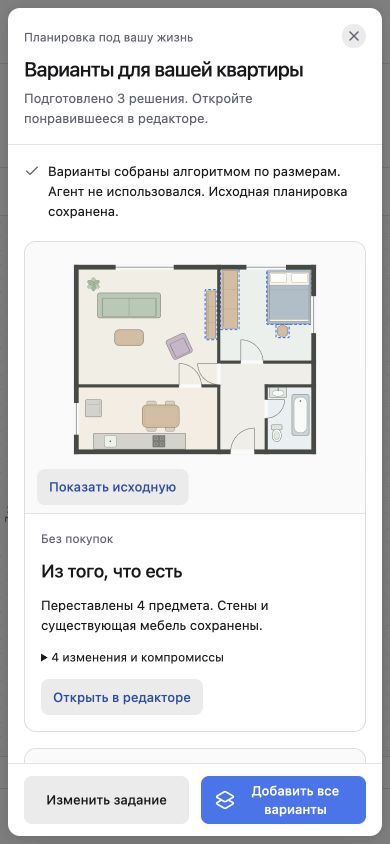
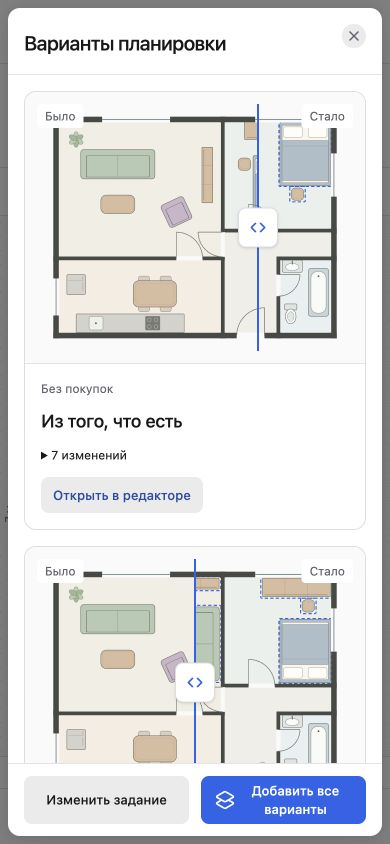
Compare layouts with a draggable divider and trim interface copy

Changed region(s): [[0.0615, 0.0308, 0.8923, 0.955], [0.5846, 0.9242, 0.6154, 0.955], [0.0615, 0.1848, 0.0923, 0.2156]]

diff --git a/src/components/PlannerDialog.tsx b/src/components/PlannerDialog.tsx
@@ -1,5 +1,5 @@
 import { useEffect, useRef, useState } from 'react';
-import { ArrowLeft, ArrowRight, Check, ExternalLink, Layers2, LockKeyhole, RefreshCw } from 'lucide-react';
+import { ArrowLeft, ArrowRight, Check, ExternalLink, Layers2, RefreshCw } from 'lucide-react';
 import { Button, Input, Label, Modal, NumberField, Switch, TextArea, TextField, ToggleButton, ToggleButtonGroup } from '@heroui/react';
 import type { Plan } from '../model';
 import { findRooms } from '../model';
@@ -9,13 +9,14 @@ import { GOALS } from '../planner/types';
 import type { DesignBrief, ProductSearch, PurchaseSpec } from '../planner/types';
 import { parseProject } from '../storage';
 import { PlanPreview } from './PlanPreview';
+import { PlanComparison } from './PlanComparison';
 
 const money=(n:number)=>n.toLocaleString('ru-RU',{maximumFractionDigits:0})+' ₽';
 async function request<T>(path:string,value:unknown,signal:AbortSignal):Promise<T>{
   const response=await fetch('/api/planner/'+path,{method:'POST',headers:{'Content-Type':'application/json'},body:JSON.stringify(value),signal});
   const result=await response.json();if(!response.ok)throw new Error(result.error??'Не удалось выполнить подбор');return result as T;
 }
-export default function PlannerDialog({plan,agentAvailable,capacity,onClose,onApply}:{plan:Plan;agentAvailable:boolean;capacity:number;onClose:()=>void;onApply:(plans:Plan[],activeId:string)=>void}){
+export default function PlannerDialog({plan,comparisonSource,agentAvailable,capacity,onClose,onApply}:{plan:Plan;comparisonSource?:Plan;agentAvailable:boolean;capacity:number;onClose:()=>void;onApply:(plans:Plan[],activeId:string)=>void}){
   const [source]=useState(()=>structuredClone(plan)),[brief,setBrief]=useState<DesignBrief>(()=>plan.improvement?.brief??defaultBrief(plan));
   const [step,setStep]=useState(0),[layouts,setLayouts]=useState<Plan[]>(()=>plan.improvement?[structuredClone(plan)]:[]);
   const [busy,setBusy]=useState(false),[error,setError]=useState(''),[useAgent,setUseAgent]=useState(agentAvailable),[shopping,setShopping]=useState<Plan|null>(null);
@@ -41,37 +42,34 @@ export default function PlannerDialog({plan,agentAvailable,capacity,onClose,onAp
   return <Modal.Backdrop isOpen onOpenChange={open=>{if(!open)onClose();}} isDismissable={!busy}>
     <Modal.Container placement="center" size="lg" className={`planner-container ${layouts.length?'planner-container--results':''}`}><Modal.Dialog className="planner-dialog">
       <Modal.CloseTrigger aria-label="Закрыть подбор"/>
-      <Modal.Header className="planner-header"><span className="planner-eyebrow">Планировка под вашу жизнь</span><Modal.Heading>{shopping?'Покупки для варианта':layouts.length?'Варианты для вашей квартиры':'Что хочется улучшить?'}</Modal.Heading><p>{shopping?shopping.name:layouts.length?`Подготовлено ${layouts.length} ${plural(layouts.length,'решение','решения','решений')}. Откройте понравившееся в редакторе.`:'Четыре коротких шага. Получим до трёх расстановок с учётом размеров.'}</p></Modal.Header>
+      <Modal.Header className="planner-header"><Modal.Heading>{shopping?'Покупки для варианта':layouts.length?'Варианты планировки':'Что хочется улучшить?'}</Modal.Heading>{shopping&&<p>{shopping.name}</p>}</Modal.Header>
       <Modal.Body className="planner-body">
         {shopping?<Shopping plan={shopping} agentAvailable={agentAvailable}/>:layouts.length?<>
-          <div className="planner-results-note"><Check size={16}/><span>{layouts[0].improvement?.engine==='agent'?'Агент учёл задание при выборе и описании вариантов.':'Варианты собраны алгоритмом по размерам. Агент не использовался.'} Исходная планировка сохранена.</span></div>
-          <div className="proposal-grid">{layouts.map(p=><ProposalCard key={p.id} plan={p} source={p.improvement?.sourceId===source.id?source:undefined} canApply={capacity>0} onApply={()=>onApply([p],p.id)} onShopping={()=>setShopping(p)}/>)}</div>
-          {layouts.length<3&&<p className="planner-muted">Под ограничения подошло {layouts.length} {layouts.length===1?'решение':'решения'}. Показываем подходящие расстановки без повторов.</p>}
-          <p className="planner-muted">Проверены границы комнат, пересечения переставляемых предметов и зоны открывания дверей. Свет, высоту мебели и точные проходы нужно оценить отдельно.</p>
+          <div className="proposal-grid">{layouts.map(p=><ProposalCard key={p.id} plan={p} source={p.improvement?.sourceId===source.id?source:comparisonSource?.id===p.improvement?.sourceId?comparisonSource:undefined} canApply={capacity>0} onApply={()=>onApply([p],p.id)} onShopping={()=>setShopping(p)}/>)}</div>
         </>:<>
           <ol className="brief-progress" aria-label="Шаги опроса">{['Задача','Привычки','Ограничения','Проверка'].map((label,i)=><li key={label} aria-current={i===step?'step':undefined} data-complete={i<step}><span>{i<step?<Check size={14}/>:i+1}</span>{label}</li>)}</ol>
-          {!rooms.length?<p className="planner-error">Сначала замкните стены хотя бы одной комнаты. Подбор использует её границы и размеры мебели.</p>:<>
+          {!rooms.length?<p className="planner-error">Замкните стены хотя бы одной комнаты.</p>:<>
             {step===0&&<div className="brief-step"><fieldset><legend>Какие комнаты рассматриваем?</legend><div className="brief-room-options">{rooms.map((r,i)=><Button key={r.id} size="sm" variant={brief.roomIds.includes(r.id)?'secondary':'tertiary'} aria-pressed={brief.roomIds.includes(r.id)} onPress={()=>toggleRoom(r.id)}>{brief.roomIds.includes(r.id)&&<Check size={14}/>} {r.label?.name??`Комната ${i+1}`}</Button>)}</div></fieldset><fieldset><legend>Что важнее всего? До трёх целей.</legend><ToggleButtonGroup className="goal-options" aria-label="Цели улучшения" selectionMode="multiple" isDetached selectedKeys={brief.goals} onSelectionChange={keys=>{const ids=[...keys];if(ids.length<=3)update('goals',ids as DesignBrief['goals']);}}>{GOALS.map(g=><ToggleButton key={g.id} id={g.id}><span><strong>{g.name}</strong><small>{g.description}</small></span></ToggleButton>)}</ToggleButtonGroup></fieldset></div>}
             {step===1&&<div className="brief-step"><fieldset><legend>Кто пользуется квартирой?</legend><ToggleButtonGroup className="brief-options" aria-label="Кто живёт в квартире" selectionMode="single" isDetached disallowEmptySelection selectedKeys={[brief.household]} onSelectionChange={keys=>update('household',String([...keys][0]))}>{['Один или двое','С детьми','Соседи или большая семья'].map(x=><ToggleButton key={x} id={x}>{x}</ToggleButton>)}</ToggleButtonGroup></fieldset><TextField variant="secondary" value={brief.wishes} onChange={v=>update('wishes',v)}><Label>Как проходит ваш день и что мешает сейчас?</Label><TextArea aria-label="Привычки и пожелания" rows={3} maxLength={600} placeholder="Работаем вдвоём из дома. Вечером хочется читать, но кресло стоит в проходе."/></TextField><fieldset><legend>Какие материалы и настроение вам ближе?</legend><ToggleButtonGroup className="brief-options" aria-label="Характер интерьера" selectionMode="single" isDetached disallowEmptySelection selectedKeys={[brief.style]} onSelectionChange={keys=>update('style',String([...keys][0]) as DesignBrief['style'])}>{[['warm','Тёплое дерево и фактуры'],['calm','Спокойный и светлый'],['expressive','Цвет и выразительные вещи']].map(([id,label])=><ToggleButton key={id} id={id}>{label}</ToggleButton>)}</ToggleButtonGroup></fieldset><TextField variant="secondary" value={brief.avoid} onChange={v=>update('avoid',v)}><Label>Что точно не нравится?</Label><Input aria-label="Что исключить" maxLength={600} placeholder="Глянцевая мебель, открытое хранение, холодный свет…"/></TextField></div>}
-            {step===2&&<div className="brief-step"><div className="brief-budget"><Switch isSelected={brief.purchases} onChange={v=>update('purchases',v)}><Switch.Content><Switch.Control><Switch.Thumb/></Switch.Control><Label>Можно добавить новую мебель</Label></Switch.Content></Switch>{brief.purchases&&<NumberField variant="secondary" minValue={0} maxValue={1000000} step={1000} value={brief.budget} onChange={v=>update('budget',Number.isFinite(v)?v:0)} formatOptions={{maximumFractionDigits:0}}><Label>Общий бюджет покупок, ₽</Label><NumberField.Group><NumberField.Input aria-label="Бюджет покупок"/></NumberField.Group></NumberField>}</div><fieldset><legend>Что должно остаться на месте?</legend><p className="planner-muted">Стены, двери и окна сохраняем. Кухня, сантехника и холодильник привязаны к коммуникациям.</p><div className="locked-items">{visibleItems.map(f=><div key={f.id}><span>{f.name}{FIXED_KINDS.has(f.kind)&&<small>Коммуникации</small>}</span><Switch size="sm" aria-label={`Оставить на месте: ${f.name}`} isDisabled={FIXED_KINDS.has(f.kind)} isSelected={brief.lockedIds.includes(f.id)||FIXED_KINDS.has(f.kind)} onChange={checked=>update('lockedIds',checked?[...brief.lockedIds,f.id]:brief.lockedIds.filter(id=>id!==f.id))}><Switch.Content><Switch.Control><Switch.Thumb/></Switch.Control><Label className="sr-only">{`Оставить на месте: ${f.name}`}</Label></Switch.Content></Switch></div>)}</div></fieldset><TextField variant="secondary" value={brief.city} onChange={v=>update('city',v)}><Label>Город для поиска мебели</Label><Input aria-label="Город" maxLength={100} placeholder="Например, Казань. Без адреса."/></TextField></div>}
-            {step===3&&<div className="brief-step"><div className="brief-review"><h3>Задание на подбор</h3><dl><div><dt>Комнаты</dt><dd>{selectedRooms.map((r,i)=>r.label?.name??`Комната ${i+1}`).join(', ')}</dd></div><div><dt>Приоритеты</dt><dd>{GOALS.filter(g=>brief.goals.includes(g.id)).map(g=>g.name.toLowerCase()).join(', ')}</dd></div><div><dt>Покупки</dt><dd>{brief.purchases?`Общий бюджет до ${money(brief.budget)}`:'Только существующая мебель'}</dd></div><div><dt>На месте</dt><dd>{lockedCount} {plural(lockedCount,'предмет','предмета','предметов')}, все стены и проёмы</dd></div></dl>{brief.wishes&&<p>{brief.wishes}</p>}</div><Switch isSelected={useAgent} onChange={setUseAgent} isDisabled={!agentAvailable}><Switch.Content><Switch.Control><Switch.Thumb/></Switch.Control><Label>Учесть пожелания с помощью агента</Label></Switch.Content></Switch><p className="planner-muted">{agentAvailable?'Агент получит размеры, предметы и ответы на опрос. Подложка, ссылки на товары и название проекта не отправляются.':'Агент не подключён. Доступен подбор по размерам; свободные пожелания алгоритм не интерпретирует.'}</p><div className="planner-preserved"><LockKeyhole size={16}/><span>Результаты появятся отдельно. Вы сами выбираете, какие варианты добавить в проект.</span></div></div>}
+            {step===2&&<div className="brief-step"><div className="brief-budget"><Switch isSelected={brief.purchases} onChange={v=>update('purchases',v)}><Switch.Content><Switch.Control><Switch.Thumb/></Switch.Control><Label>Можно добавить новую мебель</Label></Switch.Content></Switch>{brief.purchases&&<NumberField variant="secondary" minValue={0} maxValue={1000000} step={1000} value={brief.budget} onChange={v=>update('budget',Number.isFinite(v)?v:0)} formatOptions={{maximumFractionDigits:0}}><Label>Общий бюджет покупок, ₽</Label><NumberField.Group><NumberField.Input aria-label="Бюджет покупок"/></NumberField.Group></NumberField>}</div><fieldset><legend>Что должно остаться на месте?</legend><p className="planner-muted">Стены и коммуникации не перемещаем.</p><div className="locked-items">{visibleItems.map(f=><div key={f.id}><span>{f.name}{FIXED_KINDS.has(f.kind)&&<small>Коммуникации</small>}</span><Switch size="sm" aria-label={`Оставить на месте: ${f.name}`} isDisabled={FIXED_KINDS.has(f.kind)} isSelected={brief.lockedIds.includes(f.id)||FIXED_KINDS.has(f.kind)} onChange={checked=>update('lockedIds',checked?[...brief.lockedIds,f.id]:brief.lockedIds.filter(id=>id!==f.id))}><Switch.Content><Switch.Control><Switch.Thumb/></Switch.Control><Label className="sr-only">{`Оставить на месте: ${f.name}`}</Label></Switch.Content></Switch></div>)}</div></fieldset><TextField variant="secondary" value={brief.city} onChange={v=>update('city',v)}><Label>Город для поиска мебели</Label><Input aria-label="Город" maxLength={100} placeholder="Например, Казань. Без адреса."/></TextField></div>}
+            {step===3&&<div className="brief-step"><div className="brief-review"><h3>Задание на подбор</h3><dl><div><dt>Комнаты</dt><dd>{selectedRooms.map((r,i)=>r.label?.name??`Комната ${i+1}`).join(', ')}</dd></div><div><dt>Приоритеты</dt><dd>{GOALS.filter(g=>brief.goals.includes(g.id)).map(g=>g.name.toLowerCase()).join(', ')}</dd></div><div><dt>Покупки</dt><dd>{brief.purchases?`Общий бюджет до ${money(brief.budget)}`:'Только существующая мебель'}</dd></div><div><dt>На месте</dt><dd>{lockedCount} {plural(lockedCount,'предмет','предмета','предметов')}, все стены и проёмы</dd></div></dl>{brief.wishes&&<p>{brief.wishes}</p>}</div>{agentAvailable&&<><Switch isSelected={useAgent} onChange={setUseAgent}><Switch.Content><Switch.Control><Switch.Thumb/></Switch.Control><Label>Учесть пожелания с помощью агента</Label></Switch.Content></Switch>{useAgent&&<p className="planner-muted">Агент получит размеры, мебель и ответы на опрос.</p>}</>}</div>}
           </>}
         </>}
         {error&&<p className="planner-error" role="alert">{error}</p>}
-        {busy&&<div className="planner-running" role="status"><span className="planner-spinner"/><div><strong>{useAgent?'Агент сравнивает варианты':'Собираем расстановки'}</strong><p>Проверяем мебель, границы комнат и открывание дверей.</p></div></div>}
+        {busy&&<div className="planner-running" role="status"><span className="planner-spinner"/><div><strong>Собираем варианты</strong></div></div>}
       </Modal.Body>
       <Modal.Footer className={`planner-footer ${layouts.length&&!shopping?'planner-footer--results':''}`}>{shopping?<Button variant="tertiary" onPress={()=>setShopping(null)}><ArrowLeft size={16}/>К вариантам</Button>:layouts.length?<><Button variant="tertiary" onPress={newBrief}>Изменить задание</Button>{layouts.length>1&&<Button isDisabled={capacity<layouts.length} onPress={()=>onApply(layouts,layouts[0].id)}><Layers2 size={16}/>Добавить все варианты</Button>}</>:<><Button variant="tertiary" isDisabled={busy} onPress={()=>step?setStep(s=>s-1):onClose()}>{step>0&&<ArrowLeft size={16}/>} {step?'Назад':'Отмена'}</Button><span className="planner-step-count">{step+1} из 4</span>{step<3?<Button onPress={next} isDisabled={!rooms.length}>Далее<ArrowRight size={16}/></Button>:<Button isPending={busy} onPress={()=>void generate()} isDisabled={!rooms.length}>Собрать варианты</Button>}</>}</Modal.Footer>
     </Modal.Dialog></Modal.Container>
   </Modal.Backdrop>;
 }
 function ProposalCard({plan,source,canApply,onApply,onShopping}:{plan:Plan;source?:Plan;canApply:boolean;onApply:()=>void;onShopping:()=>void}){
-  const [before,setBefore]=useState(false),info=plan.improvement!;
-  return <article className="proposal-card"><div className="proposal-preview"><PlanPreview plan={before&&source?source:plan} source={before?undefined:source}/>{source&&<Button className="preview-compare" size="sm" variant="secondary" onPress={()=>setBefore(v=>!v)}>{before?'Показать вариант':'Показать исходную'}</Button>}</div><div className="proposal-content"><div className="proposal-budget">{info.purchases.length?`Покупки до ${money(info.purchases.reduce((n,p)=>n+p.budget,0))}`:'Без покупок'}</div><h3>{plan.name}</h3><p>{info.summary}</p><details><summary>{info.changes.length} {plural(info.changes.length,'изменение','изменения','изменений')} и компромиссы</summary><ul>{info.changes.map((c,i)=><li key={i}>{c}</li>)}</ul>{info.tradeoffs.map((t,i)=><p key={i}>{t}</p>)}</details>{info.purchases.length>0&&<Button size="sm" variant="tertiary" onPress={onShopping}>Мебель для этого варианта<ArrowRight size={14}/></Button>}<Button size="sm" variant="secondary" isDisabled={!canApply} onPress={onApply}>Открыть в редакторе</Button></div></article>;
+  const info=plan.improvement!,tradeoffs=info.engine==='agent'?info.tradeoffs:[];
+  return <article className="proposal-card"><div className="proposal-preview">{source?<PlanComparison plan={plan} source={source}/>:<PlanPreview plan={plan}/>}</div><div className="proposal-content"><div className="proposal-budget">{info.purchases.length?`Покупки до ${money(info.purchases.reduce((n,p)=>n+p.budget,0))}`:'Без покупок'}</div><h3>{plan.name}</h3>{info.engine==='agent'&&<p>{info.summary}</p>}<details><summary>{info.changes.length} {plural(info.changes.length,'изменение','изменения','изменений')}</summary><ul>{info.changes.map((c,i)=><li key={i}>{c}</li>)}</ul>{tradeoffs.map((t,i)=><p key={i}>{t}</p>)}</details>{info.purchases.length>0&&<Button size="sm" variant="tertiary" onPress={onShopping}>Покупки<ArrowRight size={14}/></Button>}<Button size="sm" variant="secondary" isDisabled={!canApply} onPress={onApply}>Открыть в редакторе</Button></div></article>;
 }
 function Shopping({plan,agentAvailable}:{plan:Plan;agentAvailable:boolean}){
   const [results,setResults]=useState<Record<string,ProductSearch>>({}),[busy,setBusy]=useState<string|null>(null),[error,setError]=useState('');
   const controller=useRef<AbortController|null>(null);useEffect(()=>()=>controller.current?.abort(),[]);
   const info=plan.improvement!;
   const search=async(spec:PurchaseSpec)=>{controller.current?.abort();const c=new AbortController();controller.current=c;setBusy(spec.id);setError('');try{const value=await request<ProductSearch>('products',{purchase:spec,brief:info.brief},c.signal);if(!c.signal.aborted)setResults(r=>({...r,[spec.id]:value}));}catch(e){if(!c.signal.aborted)setError(e instanceof Error?e.message:'Не удалось подобрать мебель');}finally{if(!c.signal.aborted)setBusy(null);}};
-  return <div className="shopping-list"><p className="planner-muted">Сначала подобрано место и размер. Товары ищем под это задание в российских магазинах. Показываем цену из источника и дату поиска. Актуальную цену, наличие и доставку уточняет магазин.</p>{info.purchases.map(saved=>{const item=plan.furniture.find(f=>f.id===saved.furnitureId);if(!item)return null;const spec={...saved,width:item.width,depth:item.depth,search:`${item.name} ${item.width}х${item.depth} см`},result=results[spec.id];return <section className="shopping-spec" key={spec.id}><div className="shopping-heading"><div><h3>{spec.name}</h3><p>{spec.width} × {spec.depth} см · до {money(spec.budget)}</p></div><Button size="sm" variant="secondary" isPending={busy===spec.id} isDisabled={!agentAvailable||busy!==null} onPress={()=>void search(spec)}>{result?<RefreshCw size={14}/>:<Layers2 size={14}/>} {result?'Проверить ещё раз':'Подобрать предложения'}</Button></div><p>{spec.reason}</p>{!agentAvailable&&<p className="planner-muted">Для подбора конкретных карточек нужен подключённый агент.</p>}<a className="shopping-search-link" href={`https://market.yandex.ru/search?text=${encodeURIComponent(spec.search)}`} target="_blank" rel="noreferrer">Открыть поисковую выдачу Маркета<ExternalLink size={13}/></a>{result&&<><p className="offer-timestamp">Поиск выполнен {new Date(result.checkedAt).toLocaleString('ru-RU')}. {Date.now()-Date.parse(result.checkedAt)>900000?'Данные устарели, обновите подбор.':''}</p>{!result.offers.length?<p className="planner-muted">Подтверждённых предложений под этот размер и бюджет не найдено. Можно изменить задание или проверить поисковую выдачу.</p>:<div className="offer-grid">{result.offers.map(offer=><a className="product-offer" key={offer.url} href={offer.url} target="_blank" rel="noreferrer"><span>{offer.shop}<ExternalLink size={13}/></span><h4>{offer.title}</h4><strong>{offer.price!==null?money(offer.price):'Цена не подтверждена'}</strong><small>{offer.fit==='confirmed'?`${offer.width} × ${offer.depth} см, размеры из источника`:'Размеры нужно сверить'}</small><p>{offer.note}</p></a>)}</div>}</>}</section>;})}{error&&<p className="planner-error" role="alert">{error}</p>}</div>;
+  return <div className="shopping-list">{info.purchases.map(saved=>{const item=plan.furniture.find(f=>f.id===saved.furnitureId);if(!item)return null;const spec={...saved,width:item.width,depth:item.depth,search:`${item.name} ${item.width}х${item.depth} см`},result=results[spec.id];return <section className="shopping-spec" key={spec.id}><div className="shopping-heading"><div><h3>{spec.name}</h3><p>{spec.width} × {spec.depth} см · до {money(spec.budget)}</p></div>{agentAvailable&&<Button size="sm" variant="secondary" isPending={busy===spec.id} isDisabled={busy!==null} onPress={()=>void search(spec)}>{result?<RefreshCw size={14}/>:<Layers2 size={14}/>} {result?'Проверить ещё раз':'Подобрать предложения'}</Button>}</div><p>{spec.reason}</p><a className="shopping-search-link" href={`https://market.yandex.ru/search?text=${encodeURIComponent(spec.search)}`} target="_blank" rel="noreferrer">Найти на Маркете<ExternalLink size={13}/></a>{result&&<><p className="offer-timestamp">Поиск выполнен {new Date(result.checkedAt).toLocaleString('ru-RU')}. {Date.now()-Date.parse(result.checkedAt)>900000?'Данные устарели, обновите подбор.':''}</p>{!result.offers.length?<p className="planner-muted">Подходящих предложений не найдено.</p>:<div className="offer-grid">{result.offers.map(offer=><a className="product-offer" key={offer.url} href={offer.url} target="_blank" rel="noreferrer"><span>{offer.shop}<ExternalLink size={13}/></span><h4>{offer.title}</h4><strong>{offer.price!==null?money(offer.price):'Цена не подтверждена'}</strong><small>{offer.fit==='confirmed'?`${offer.width} × ${offer.depth} см, размеры из источника`:'Размеры нужно сверить'}</small><p>{offer.note}</p></a>)}</div>}</>}</section>;})}{error&&<p className="planner-error" role="alert">{error}</p>}</div>;
 }

diff --git a/src/styles.css b/src/styles.css
@@ -255,7 +255,6 @@ input { min-width: 0; }
 .planner-header { flex-shrink: 0; gap: 4px; padding: 24px 56px 20px 24px; border-bottom: 1px solid var(--separator); }
 .planner-header .modal__heading { font-size: 24px; letter-spacing: -.5px; }
 .planner-header>p { color: var(--muted); font-size: 13px; line-height: 20px; }
-.planner-eyebrow { color: var(--muted); font-size: 12px; margin-bottom: 4px; }
 .planner-body { min-height: 0; overflow: auto; padding: 24px; margin: 0; color: var(--foreground); }
 .planner-header+.planner-body, .planner-body+.planner-footer { margin-top: 0; }
 .planner-dialog .button, .planner-dialog .toggle-button { border-radius: var(--radius); font-size: 13px; }
@@ -290,9 +289,6 @@ input { min-width: 0; }
 .brief-review dt { color: var(--muted); }
 .brief-review dd { margin: 0; overflow-wrap: anywhere; }
 .brief-review>p { margin-top: 16px; font-size: 13px; line-height: 20px; }
-.planner-preserved, .planner-results-note { display: flex; align-items: flex-start; gap: 8px; font-size: 13px; line-height: 20px; }
-.planner-preserved>svg, .planner-results-note>svg { flex-shrink: 0; margin-top: 2px; color: var(--muted); }
-.planner-results-note { margin-bottom: 20px; }
 .planner-footer { flex-shrink: 0; display: flex; align-items: center; justify-content: space-between; gap: 12px; padding: 16px 24px; border-top: 1px solid var(--separator); }
 .planner-step-count { color: var(--muted); font-size: 12px; }
 .planner-error { margin-top: 16px; padding: 12px; border: 1px solid var(--danger); border-radius: var(--radius); color: var(--danger); background: var(--danger-soft); font-size: 13px; line-height: 20px; }
@@ -301,13 +297,12 @@ input { min-width: 0; }
 .planner-running p { margin-top: 4px; font-size: 12px; color: var(--muted); }
 .planner-spinner { width: 20px; height: 20px; flex-shrink: 0; border: 2px solid var(--border); border-top-color: var(--accent); border-radius: 50%; animation: planner-spin 1s linear infinite; }
 @keyframes planner-spin { to { transform: rotate(360deg); } }
-.proposal-grid { display: grid; grid-template-columns: repeat(3, minmax(0,1fr)); align-items: stretch; gap: 16px; margin-bottom: 20px; }
+.proposal-grid { display: grid; grid-template-columns: repeat(3, minmax(0,1fr)); align-items: stretch; gap: 16px; }
 .proposal-grid:has(>.proposal-card:only-child) { grid-template-columns: minmax(0,720px); justify-content: center; }
 .proposal-grid:has(>.proposal-card:nth-child(2):last-child) { grid-template-columns: repeat(2,minmax(0,1fr)); }
 .proposal-card { display: flex; flex-direction: column; min-width: 0; border: 1px solid var(--border); border-radius: 12px; overflow: hidden; }
-.proposal-preview { position: relative; aspect-ratio: 1.25; padding: 12px 12px 48px; background: #fafafa; border-bottom: 1px solid var(--separator); }
+.proposal-preview { position: relative; aspect-ratio: 1.25; padding: 12px; background: #fafafa; border-bottom: 1px solid var(--separator); }
 .plan-preview { width: 100%; height: 100%; display: block; }
-.preview-compare { position: absolute; bottom: 8px; left: 12px; }
 .proposal-content { display: flex; flex: 1; flex-direction: column; gap: 12px; padding: 16px; }
 .proposal-budget { color: var(--muted); font-size: 12px; }
 .proposal-content h3 { font-size: 18px; font-weight: 500; line-height: 24px; letter-spacing: -.2px; }
@@ -368,3 +363,16 @@ input { min-width: 0; }
   .planner-footer--results { display: grid; grid-template-columns: 1fr 1fr; }
   .planner-footer--results .button { width: 100%; height: 100%; min-height: 48px; white-space: normal; }
 }
+
+.plan-comparison { position: relative; width: 100%; height: 100%; isolation: isolate; }
+.comparison-layer { position: absolute; inset: 0; background: #fafafa; pointer-events: none; }
+.comparison-label { position: absolute; top: 0; padding: 4px 8px; border-radius: 4px; background: var(--surface); color: var(--muted); font-size: 12px; line-height: 16px; }
+.comparison-label--before { left: 0; }
+.comparison-label--after { right: 0; }
+.plan-comparison .comparison-slider { position: absolute; inset: 0; display: block; width: 100%; height: 100%; }
+.comparison-slider .slider__track { width: 100%; height: 100%; border: 0; border-radius: 0; background: transparent; touch-action: pan-y; cursor: ew-resize; }
+.comparison-slider .slider__thumb { width: 2px; height: 100%; border-radius: 0; background: var(--accent); cursor: ew-resize; transition: none; }
+.comparison-slider .slider__thumb::after { display: none; }
+.comparison-grip { display: grid; place-items: center; width: 40px; height: 40px; flex-shrink: 0; border: 1px solid var(--border); border-radius: var(--radius); background: var(--surface); color: var(--accent); box-shadow: var(--shadow-sm); touch-action: none; }
+.comparison-slider .slider__thumb[data-focus-visible="true"] { outline: none; box-shadow: none; }
+.comparison-slider .slider__thumb[data-focus-visible="true"] .comparison-grip { outline: 2px solid var(--focus); outline-offset: 3px; }

diff --git a/src/App.tsx b/src/App.tsx
@@ -289,7 +289,7 @@ export default function App() {
               <p className="property-hint">Площадь считается по осевым линиям стен и меняется вместе с контуром.</p>
             </> : <>
               <div className="selection-title"><h2>План квартиры</h2><div className="area-value">{squareMeters(area)}<span>м²</span></div><p className="area-caption">Площадь по осевым линиям стен</p></div>
-              {plannerStatus.enabled && plan.improvement && <section className="property-section improvement-summary"><h3>Идея варианта</h3><p>{plan.improvement.summary}</p><Button size="sm" variant="secondary" fullWidth onPress={()=>setPlannerOpen(true)}>Задание и покупки</Button></section>}
+              {plannerStatus.enabled && plan.improvement && <section className="property-section improvement-summary"><h3>Идея варианта</h3><p>{plan.improvement.engine==='local'?plan.improvement.summary.replace(' Стены и существующая мебель сохранены.',''):plan.improvement.summary}</p><Button size="sm" variant="secondary" fullWidth onPress={()=>setPlannerOpen(true)}>Задание и покупки</Button></section>}
               <dl className="project-stats"><div><dt>Помещений</dt><dd>{rooms.length}</dd></div><div><dt>Предметов</dt><dd>{plan.furniture.length}</dd></div><div><dt>Стен</dt><dd>{plan.walls.length}</dd></div></dl>
               <section className="property-section"><div className="section-heading"><h3>Текущий вариант</h3><div className="inline-actions"><IconButton label="Переименовать вариант" onPress={() => openModal('rename')}><Pencil size={14} /></IconButton><IconButton label="Удалить вариант" isDisabled={project.variants.length < 2} onPress={() => openModal('deleteVariant')}><Trash2 size={14} /></IconButton></div></div><p className="current-variant">{plan.name}</p><Button variant="secondary" size="sm" fullWidth onPress={() => openModal('variant')}><Copy size={14} />Копировать вариант</Button></section>
               <p className="property-hint selection-tip">Выберите объект на плане, чтобы изменить его размеры и положение.</p>
@@ -305,10 +305,10 @@ export default function App() {
       <div className="mobile-controls"><Button variant="ghost" size="sm" onPress={() => openModal('new')}><FilePlus2 size={16} />Новый</Button><Button variant="ghost" size="sm" onPress={() => setMobilePanel('catalog')}><Sofa size={16} />Мебель</Button><Button variant="ghost" size="sm" onPress={() => setMobilePanel('inspector')}><Settings2 size={16} />Свойства</Button><Button variant="ghost" size="sm" onPress={() => canvas.current?.fit()}><Maximize2 size={16} />Весь план</Button></div>
       <input ref={projectInput} type="file" accept=".json,.metr.json" hidden onChange={e => { void importProject(e.target.files?.[0]); e.target.value = ''; }} />
       <input ref={imageInput} type="file" accept="image/png,image/jpeg,image/webp" hidden onChange={e => { void importBackground(e.target.files?.[0]); e.target.value = ''; }} />
-      <Suspense fallback={null}>{plannerStatus.enabled && plannerOpen && <PlannerDialog plan={plan} agentAvailable={plannerStatus.agentAvailable} capacity={30-project.variants.length} onClose={()=>setPlannerOpen(false)} onApply={(plans,activeId)=>{
+      <Suspense fallback={null}>{plannerStatus.enabled && plannerOpen && <PlannerDialog plan={plan} comparisonSource={project.variants.find(p=>p.id===plan.improvement?.sourceId)} agentAvailable={plannerStatus.agentAvailable} capacity={30-project.variants.length} onClose={()=>setPlannerOpen(false)} onApply={(plans,activeId)=>{
         if(projectRef.current.variants.length+plans.length>30){notice('В одном проекте может быть до 30 вариантов');return;}
         const copies=plans.map(p=>({...structuredClone(p),id:uid()})), index=plans.findIndex(p=>p.id===activeId);
-        update(p=>({...p,variants:[...p.variants,...copies],activeId:copies[Math.max(0,index)].id}));setSelection(null);setCompareId('');setTool('select');setPlannerOpen(false);notice('Варианты добавлены. Исходный план сохранён.');
+        update(p=>({...p,variants:[...p.variants,...copies],activeId:copies[Math.max(0,index)].id}));setSelection(null);setCompareId('');setTool('select');setPlannerOpen(false);notice('Добавлено в проект');
       }}/>}</Suspense>
       <Toast.Provider placement="bottom" maxVisibleToasts={2} width={420} />
 

diff --git a/src/components/PlanPreview.tsx b/src/components/PlanPreview.tsx
@@ -1,16 +1,29 @@
+import { memo } from 'react';
 import type { Plan } from '../model';
 import { findRooms } from '../model';
 import { FurnitureGlyph } from './FurnitureGlyph';
-import { distance } from '../geometry';
-export function PlanPreview({ plan, source }: { plan: Plan; source?: Plan }) {
-  const rooms=findRooms(plan),points=Object.keys(plan.nodes).length?Object.values(plan.nodes):[{x:0,y:0},{x:900,y:700}];
-  const minX=Math.min(...points.map(p=>p.x))-50,minY=Math.min(...points.map(p=>p.y))-50;
-  const width=Math.max(...points.map(p=>p.x))-minX+50,height=Math.max(...points.map(p=>p.y))-minY+50;
-  const stroke=Math.max(width,height)/280;
-  return <svg className="plan-preview" role="img" aria-label={`Планировка: ${plan.name}`} viewBox={`${minX} ${minY} ${width} ${height}`}>
+import { distance, furnitureBounds } from '../geometry';
+interface PreviewFrame { viewBox: string; stroke: number }
+export function getPreviewFrame(plans: Plan[]): PreviewFrame {
+  const points = plans.flatMap(plan => [
+    ...Object.values(plan.nodes),
+    ...plan.furniture.flatMap(item => {
+      const bounds = furnitureBounds(item);
+      return [{ x: item.x - bounds.width / 2, y: item.y - bounds.height / 2 },
+        { x: item.x + bounds.width / 2, y: item.y + bounds.height / 2 }];
+    }),
+  ]);
+  if (!points.length) points.push({ x: 0, y: 0 }, { x: 900, y: 700 });
+  const minX = Math.min(...points.map(p => p.x)) - 50, minY = Math.min(...points.map(p => p.y)) - 50;
+  const width = Math.max(...points.map(p => p.x)) - minX + 50, height = Math.max(...points.map(p => p.y)) - minY + 50;
+  return { viewBox: `${minX} ${minY} ${width} ${height}`, stroke: Math.max(width, height) / 280 };
+}
+export const PlanPreview = memo(function PlanPreview({ plan, source, frame = getPreviewFrame([plan]) }: { plan: Plan; source?: Plan; frame?: PreviewFrame }) {
+  const rooms = findRooms(plan), { stroke } = frame;
+  return <svg className="plan-preview" role="img" aria-label={`Планировка: ${plan.name}`} viewBox={frame.viewBox}>
     {rooms.map(r=><polygon key={r.id} points={r.vertices.map(p=>`${p.x},${p.y}`).join(' ')} fill={r.label?.color??'#efeee8'}/>)}
     {plan.furniture.map(f=>{const old=source?.furniture.find(p=>p.id===f.id),changed=source&&(!old||distance(old,f)>10||Math.abs(old.rotation-f.rotation)>5);return <g key={f.id} transform={`translate(${f.x} ${f.y}) rotate(${f.rotation})`}><FurnitureGlyph item={f}/>{changed&&<rect x={-f.width/2-5} y={-f.depth/2-5} width={f.width+10} height={f.depth+10} fill="none" stroke="var(--accent)" strokeWidth={stroke} strokeDasharray={`${stroke*3} ${stroke*2}`} rx={3}/>}</g>;})}
     {plan.walls.map(w=><line key={w.id} x1={plan.nodes[w.a].x} y1={plan.nodes[w.a].y} x2={plan.nodes[w.b].x} y2={plan.nodes[w.b].y} stroke="#464a43" strokeWidth={w.thickness} strokeLinecap="square"/>)}
     {plan.openings.map(o=>{const w=plan.walls.find(w=>w.id===o.wallId)!,a=plan.nodes[w.a],b=plan.nodes[w.b],angle=Math.atan2(b.y-a.y,b.x-a.x)*180/Math.PI;return <g key={o.id} transform={`translate(${a.x+(b.x-a.x)*o.t} ${a.y+(b.y-a.y)*o.t}) rotate(${angle})`}><rect x={-o.width/2} y={-w.thickness/2-1} width={o.width} height={w.thickness+2} fill="#fafafa"/>{o.kind==='window'?<path d={`M${-o.width/2} 0H${o.width/2}`} stroke="#71878b" strokeWidth={3}/>:<path d={`M${-o.width/2} 0v${o.width*o.swing}M${o.width/2} 0A${o.width} ${o.width} 0 0 ${o.swing===1?1:0} ${-o.width/2} ${o.width*o.swing}`} fill="none" stroke="#7b7c72" strokeWidth={stroke*.65}/>}</g>;})}
   </svg>;
-}
+});

diff --git a/src/components/PlanComparison.tsx b/src/components/PlanComparison.tsx
@@ -1,0 +1,31 @@
+import { useMemo, useState } from 'react';
+import { Slider } from '@heroui/react';
+import { ChevronsLeftRight } from 'lucide-react';
+import type { Plan } from '../model';
+import { getPreviewFrame, PlanPreview } from './PlanPreview';
+
+export function PlanComparison({ plan, source }: { plan: Plan; source: Plan }) {
+  const [position, setPosition] = useState(50);
+  const frame = useMemo(() => getPreviewFrame([source, plan]), [source, plan]);
+
+  return (
+    <div className="plan-comparison">
+      <div className="comparison-layer">
+        <PlanPreview plan={source} frame={frame} />
+        <span className="comparison-label comparison-label--before">Было</span>
+      </div>
+      <div className="comparison-layer" style={{ clipPath: `inset(0 0 0 ${position}%)` }}>
+        <PlanPreview plan={plan} source={source} frame={frame} />
+        <span className="comparison-label comparison-label--after">Стало</span>
+      </div>
+      <Slider className="comparison-slider" aria-label={`Сравнение планировок: ${plan.name}`}
+        minValue={0} maxValue={100} step={1} value={position} onChange={value => setPosition(Number(value))}>
+        <Slider.Track>
+          <Slider.Thumb aria-label="Граница сравнения" aria-valuetext={`${position}% исходной планировки`}>
+            <span className="comparison-grip" aria-hidden="true"><ChevronsLeftRight size={20} /></span>
+          </Slider.Thumb>
+        </Slider.Track>
+      </Slider>
+    </div>
+  );
+}

diff --git a/README.md b/README.md
@@ -41,7 +41,7 @@ npm run preview
 
 Фича закрыта серверным флагом `METR_PLANNER_ENABLED`, по умолчанию `false`. В публичном окружении флаг должен оставаться выключенным. При выключенном флаге вход в опрос скрыт, генерация и поиск товаров возвращают HTTP 403. Параметры URL и настройки браузера не включают серверный API.
 
-Опрос собирает комнаты, приоритеты, привычки, ограничения, бюджет в рублях и город. Можно запретить перестановку конкретных предметов. Результат содержит до трёх готовых вариантов с превью, сравнением с исходником, списком перемещений, компромиссами и заданием на покупки. Выбранные варианты добавляются в проект одной операцией, которую можно отменить. Описания и задания сохраняются вместе с планом.
+Опрос собирает комнаты, приоритеты, привычки, ограничения, бюджет в рублях и город. Можно запретить перестановку конкретных предметов. Результат содержит до трёх готовых вариантов со списком перемещений и заданием на покупки. Исходная и новая планировки совмещены в одном превью с подвижной вертикальной границей. Разделитель поддерживает мышь, сенсорный экран и клавиатуру. Выбранные варианты добавляются в проект одной операцией, которую можно отменить. Описания и задания сохраняются вместе с планом.
 
 ![Локальная проверка подбора с включённым флагом](docs/planner.jpg)
 
@@ -95,7 +95,7 @@ React + TypeScript, HeroUI v3, Tailwind CSS v4, Vite и SVG. `src/model.ts` хр
 
 Production-сборка, проверка типов клиента и сервера, 29 тестов проходят. Тесты покрывают геометрию, формат проекта, ограничения генератора, бюджет, ссылки из источников поиска и серверный запрет фичи. В браузере проверены рисование замкнутого помещения, изменение длины стены и пересчёт площади, дверь, добавление и перенос мебели, размеры и поворот, отмена, копирование и наложение вариантов, выгрузка JSON и PNG. Проверены мобильный размер 390 × 844 и открытие панели свойств. Выгруженные JSON-файлы проходят повторную проверку формата.
 
-Для подбора в браузере проверены опрос, фиксация предмета, три варианта, сравнение с исходником, покупки, добавление всех вариантов, отмена и повтор, сохранение после перезагрузки. Временные варианты удалены, исходный план сохранён. Проверены ширины 320, 360, 390, 768, 1024 и 1440 px. Production-режим с выключенным флагом проверен отдельно: вход скрыт, прямой запрос получает 403. Вызовы внешней модели проверены с подставным ответом API; реальный ключ для сквозной проверки не подключён.
+Для подбора в браузере проверены опрос, фиксация предмета, три варианта, покупки, добавление всех вариантов, отмена и повтор, сохранение после перезагрузки. Для сравнения проверены перетаскивание границы мышью, крайние положения, стрелки, Home и End, общий масштаб и повторное открытие сохранённого варианта. Временные варианты удалены, исходный план сохранён. Проверены ширины 320, 360, 390, 768, 1024 и 1440 px. Production-режим с выключенным флагом проверен отдельно: вход скрыт, прямой запрос получает 403. Вызовы внешней модели проверены с подставным ответом API; реальный ключ для сквозной проверки не подключён.
 
 Импорт JSON и подложки через системный выбор файла не прошёл сквозную браузерную проверку: автоматизация выбора файла завершилась ошибкой. Сами обработчики импорта и калибровка подложки реализованы.
 

diff --git a/DESIGN.md b/DESIGN.md
@@ -59,9 +59,9 @@
 
 ## Подбор по заданию
 
-Опрос занимает четыре шага: комнаты и цели, привычки и стиль, бюджет и неподвижные предметы, проверка задания. На последнем шаге указан способ обработки. Алгоритмический подбор и работа внешнего агента подписаны отдельно.
+Опрос занимает четыре шага: комнаты и цели, привычки и стиль, бюджет и неподвижные предметы, проверка задания. Переключатель агента появляется, когда подключён серверный провайдер. Сведения о способе генерации не занимают место в результатах.
 
-Результаты показывают весь план, выделяют перемещённые и добавленные предметы, позволяют переключить превью на исходник. Карточка содержит объяснение, перемещения, компромиссы и покупки. Пользователь открывает один вариант или добавляет все. Исходный план сохраняется, добавление отменяется целиком.
+Результаты совмещают исходную и новую планировки в одном масштабе. Вертикальную границу можно двигать мышью, пальцем и стрелками. Home показывает новую планировку целиком, End показывает исходную. Положение разделителя у каждой карточки своё. Карточка содержит перемещения, покупки, а также содержательные объяснения и компромиссы агента. Пользователь открывает один вариант или добавляет все. Исходный план сохраняется, добавление отменяется целиком.
 
 В первой версии стены, проёмы и коммуникации не меняются. Перестановки ограничены выбранными комнатами. Проверка связности использует сетку и не гарантирует точную ширину прохода. Высота мебели, свет, розетки и материалы неизвестны из 2D-модели.
 
